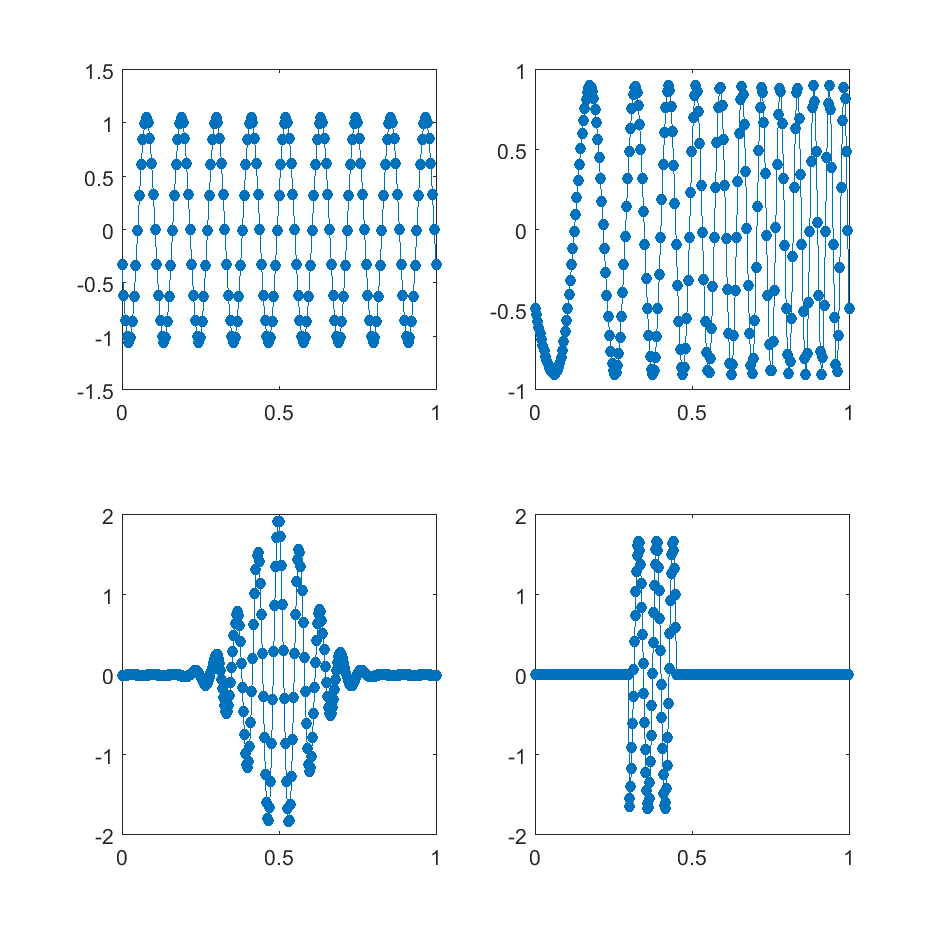
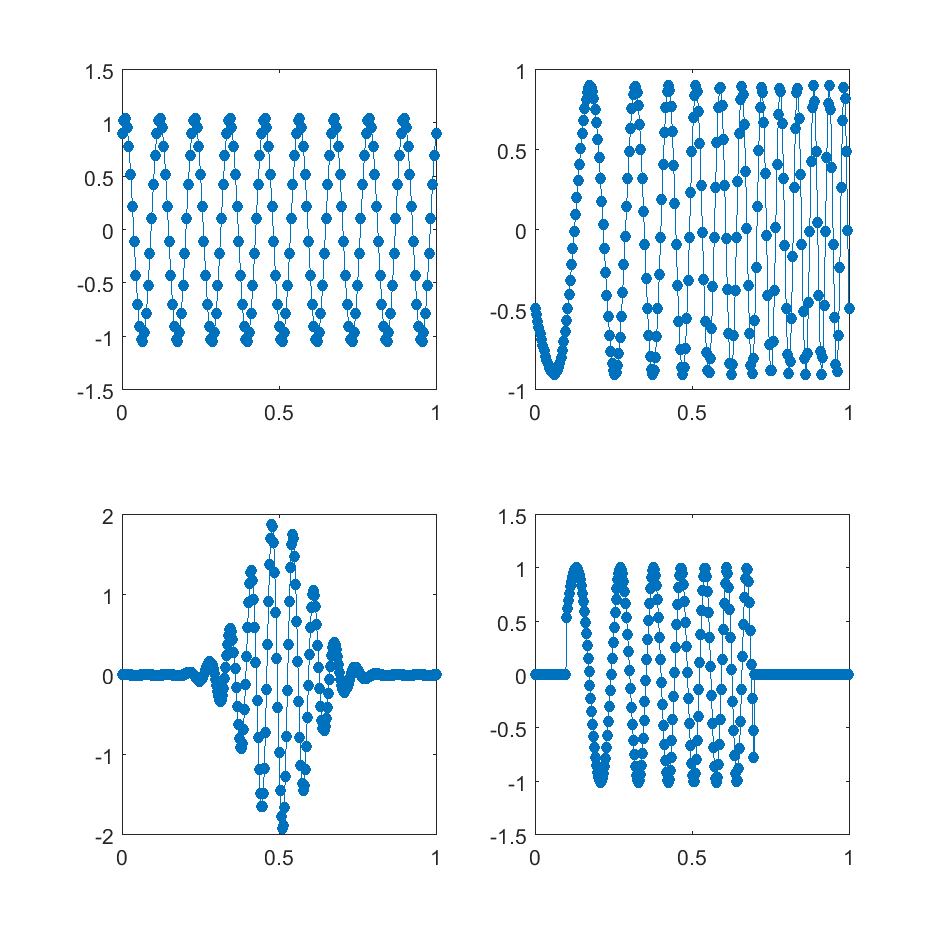
phase fixed

diff --git a/LWZ/Lab1/test.m b/LWZ/Lab1/test.m
@@ -7,25 +7,25 @@ sfuns=sigfuns;
 
 % Set Signal parameters then Generate the signals
 
-f0=9; phi0=60; A = 10;
+f0=9; phi0=pi/3; A = 10;
 maxFreq = f0; samplFreq = 20*maxFreq;
 timeVec=settimevec(samplFreq,0,1.0);
 sigVec = sfuns.sinsigf(timeVec,A,[f0,phi0]);
 sinSD = SignalData(maxFreq,samplFreq,timeVec,sigVec);
 
-f0=2; f1=10; phi0=60; A = 10;
+f0=2; f1=10; phi0=pi/3; A = 10;
 maxFreq = f0+f1; samplFreq = 20*maxFreq;
 timeVec=settimevec(samplFreq,0,1.0);
 sigVec = sfuns.lcsigf(timeVec,A,[f0,f1,phi0]);
 lcSD = SignalData(maxFreq,samplFreq,timeVec,sigVec);
 
-f0=15;  phi0=30;  t0=0.5; sigma=0.1;A = 10;
+f0=15;  phi0=pi/6;  t0=0.5; sigma=0.1;A = 10;
 maxFreq = f0; samplFreq = 20*maxFreq;
 timeVec=settimevec(samplFreq,0,1.0);
 sigVec = sfuns.singausigf(timeVec,A,[f0,phi0,t0,sigma]);
 singauSD = SignalData(maxFreq,samplFreq,timeVec,sigVec);
 
-f0=15; f1=20; phi0=30;  ta=0.3; sL=0.15; A = 10;
+f0=5; f1=10; phi0=pi/6;  ta=0.1; sL=0.6; A = 10;
 maxt=max(ta-f0/2/f1,1-(ta-f0/2/f1));
 maxFreq = f0*(maxt-ta)+f1*(maxt-ta)^2;
 samplFreq = 20*maxFreq;

diff --git a/LWZ/Lab1/testLPfilter.m b/LWZ/Lab1/testLPfilter.m
@@ -1,0 +1,35 @@
+sfuns=sigfuns;
+
+samplFreq = 1024;
+f1=100; phi1=0; A1 = 10;
+f2=200; phi2=pi/6; A2 = 5.5;
+f3=300; phi3=pi/4; A3 = 2.5;
+
+timeVec=settimevec(samplFreq,0,2.0);
+sigVec1 = sfuns.sinsigf(timeVec,A1,[f1,phi1]);
+sigVec2 = sfuns.sinsigf(timeVec,A2,[f2,phi2]);
+sigVec3 = sfuns.sinsigf(timeVec,A3,[f3,phi3]);
+sigVec=sigVec1+sigVec2+sigVec3;
+
+%fig=figure;fig.Position=[60,50,1200,600];
+%plot(timeVec,sigVec,'Marker','.','MarkerSize',18)
+
+filtOrder = 30;
+maxfq = 1000;
+%b=fir1(filtOrder,[0.1,0.9],'low');
+b = fir1(filtOrder,[80/512,120/512]);
+%freqz(b,1,512);
+filtSig = fftfilt(b,sigVec);
+
+fig=figure;fig.Position=[60,50,1200,400];
+ 
+subplot(3,1,1);
+plot(timeVec,sigVec,'Marker','.','MarkerSize',18);
+axis([1 1.2 -1 1]);
+subplot(3,1,2);
+plot(timeVec,filtSig,'Marker','.','MarkerSize',18);
+axis([1 1.2 -1 1]);
+subplot(3,1,3);
+plot(timeVec,sigVec1,'Marker','.','MarkerSize',18);
+axis([1 1.2 -1 1]);
+
